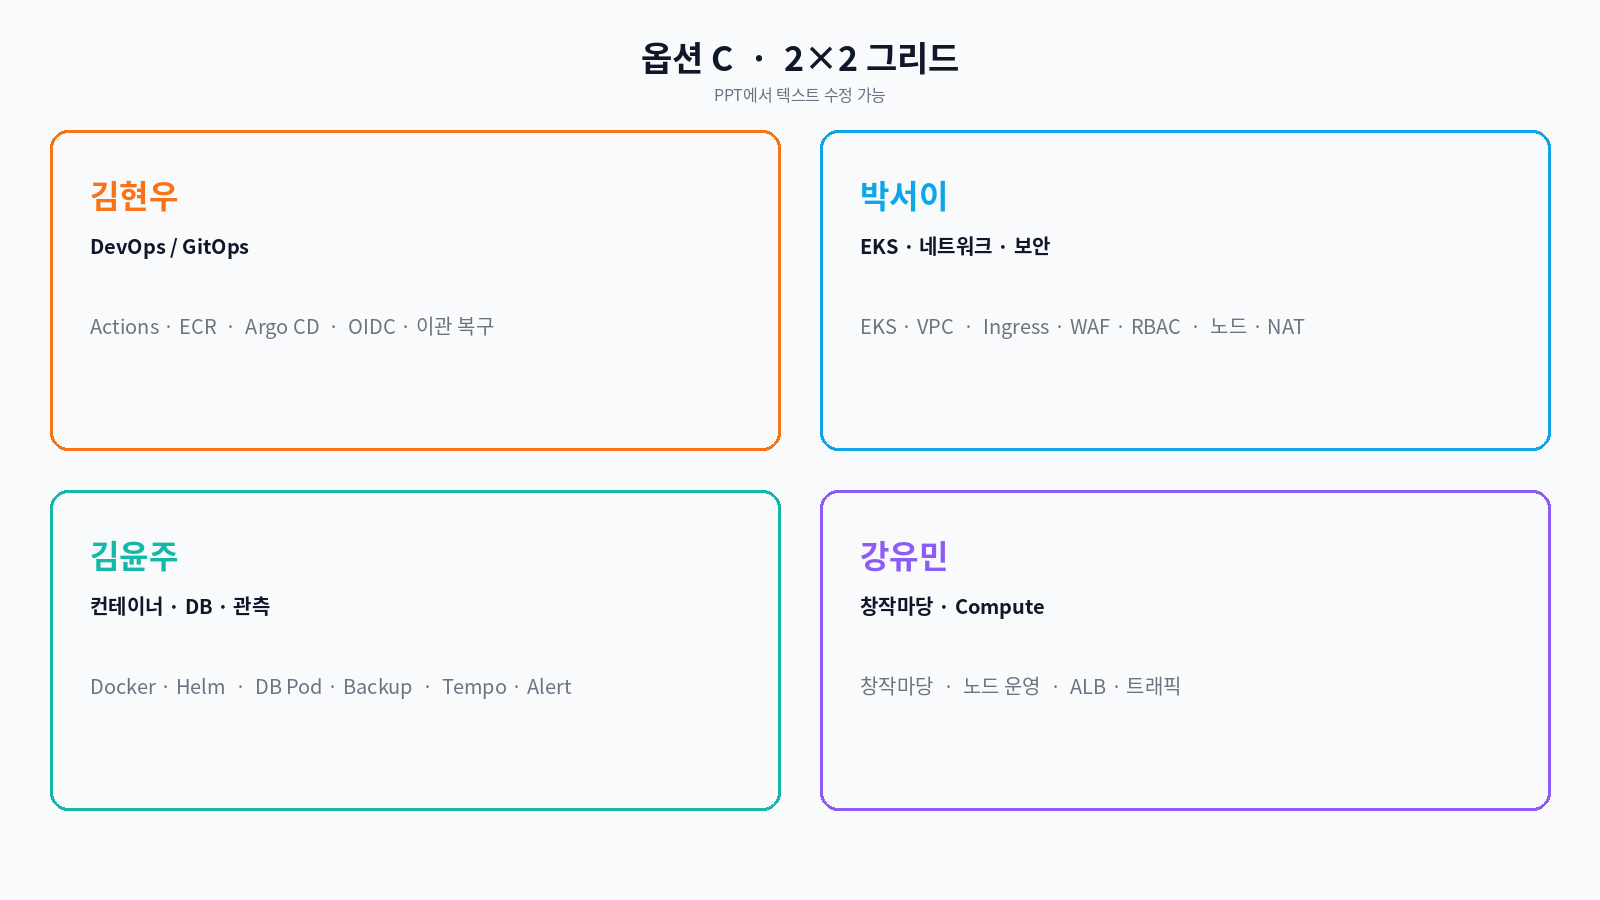
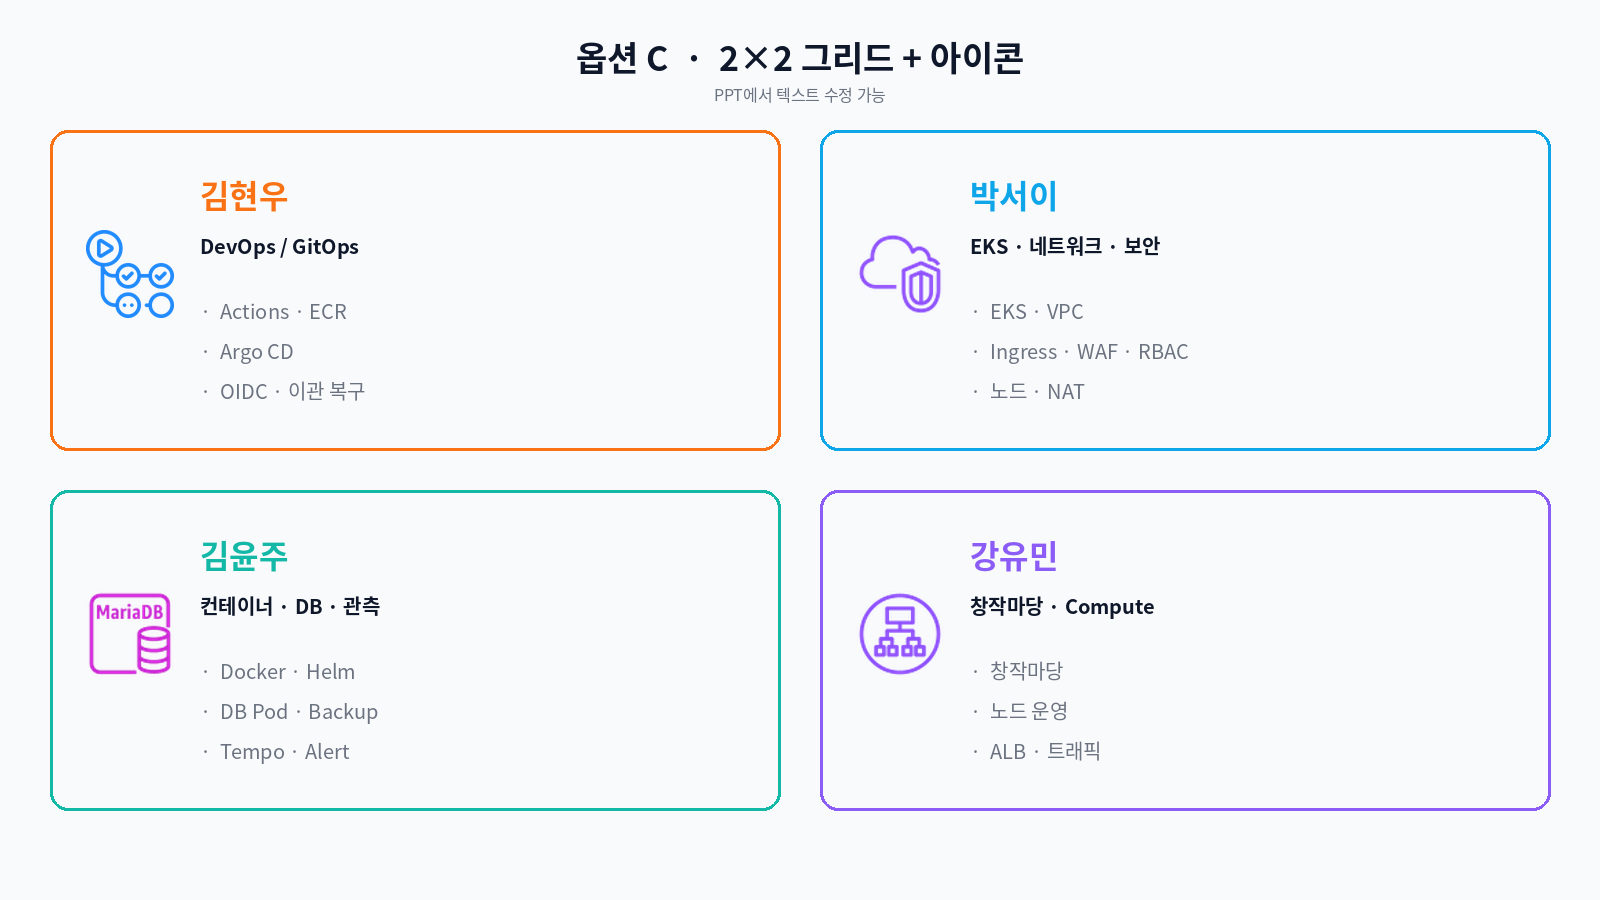
docs(presentation): 역할분담 옵션 C에 아이콘 추가 후 본편 반영
2×2 그리드에 Actions/VPC/DB/ALB 아이콘을 넣고, 텍스트는 PPT에서
수정 가능하도록 유지. 본편 19장도 동일 스타일로 교체.

diff --git a/docs/presentation/make_aniverse_v1v2_ppt.py b/docs/presentation/make_aniverse_v1v2_ppt.py
@@ -23,6 +23,7 @@ from pptx.util import Inches, Pt
 FONT = "맑은 고딕"
 BASE = Path(__file__).resolve().parent
 IMG = BASE / "images" / "hybrid"
+ICON = BASE / "images" / "icons"
 OUT = BASE / "ppt"
 OUT.mkdir(parents=True, exist_ok=True)
 
@@ -627,67 +628,61 @@ def slide_schedule(prs):
 
 
 def slide_roles(prs):
-    """팀 역할분담 — PPT에서 텍스트 직접 수정 가능한 카드 구성."""
+    """팀 역할분담 — 옵션 C(2×2) + 아이콘, 텍스트 수정 가능."""
     s = blank(prs)
     bg(s)
     title_center(s, "팀 역할분담", size=34)
     roles = [
         (
             ORANGE,
+            "githubactions",
             "김현우",
             "DevOps / GitOps",
-            [
-                "Actions · ECR",
-                "Argo CD",
-                "OIDC · 이관 복구",
-            ],
+            ["Actions · ECR", "Argo CD", "OIDC · 이관 복구"],
         ),
         (
             CYAN,
+            "vpc",
             "박서이",
             "EKS · 네트워크 · 보안",
-            [
-                "EKS · VPC",
-                "Ingress · WAF · RBAC",
-                "노드 · NAT",
-            ],
+            ["EKS · VPC", "Ingress · WAF · RBAC", "노드 · NAT"],
         ),
         (
             TEAL,
+            "rds_maria",
             "김윤주",
             "컨테이너 · DB · 관측",
-            [
-                "Docker · Helm",
-                "DB Pod · Backup",
-                "Tempo · Alert",
-            ],
+            ["Docker · Helm", "DB Pod · Backup", "Tempo · Alert"],
         ),
         (
             PURPLE,
+            "alb",
             "강유민",
             "창작마당 · Compute",
-            [
-                "창작마당",
-                "노드 운영",
-                "ALB · 트래픽",
-            ],
+            ["창작마당", "노드 운영", "ALB · 트래픽"],
         ),
     ]
-    for i, (color, name, area, lines) in enumerate(roles):
-        x = Inches(0.35) + i * Inches(3.25)
-        head = card(s, x, Inches(1.15), Inches(3.05), Inches(1.35), color)
-        set_text(head.text_frame, name, 24, True, WHITE, PP_ALIGN.CENTER)
-        add_para(head.text_frame, area, 13, False, WHITE, 6, PP_ALIGN.CENTER)
-        body = card(s, x, Inches(2.65), Inches(3.05), Inches(4.0), LIGHT)
-        body.text_frame.clear()
-        pad(body.text_frame)
-        first = True
-        for line in lines:
-            if first:
-                set_text(body.text_frame, "·  " + line, 16, False, NAVY, PP_ALIGN.CENTER)
-                first = False
-            else:
-                add_para(body.text_frame, "·  " + line, 16, False, NAVY, 18, PP_ALIGN.CENTER)
+    positions = [(0.45, 1.1), (6.85, 1.1), (0.45, 4.05), (6.85, 4.05)]
+    for (x, y), (color, icon, name, area, lines) in zip(positions, roles):
+        card(s, Inches(x), Inches(y), Inches(6.0), Inches(2.75), SOFT, color)
+        icon_path = ICON / f"{icon}.png"
+        if icon_path.exists():
+            s.shapes.add_picture(
+                str(icon_path),
+                Inches(x + 0.3),
+                Inches(y + 0.55),
+                width=Inches(0.85),
+                height=Inches(0.85),
+            )
+        text_x = Inches(x + 1.4)
+        name_box = s.shapes.add_textbox(text_x, Inches(y + 0.25), Inches(4.3), Inches(0.55))
+        set_text(name_box.text_frame, name, 26, True, color)
+        area_box = s.shapes.add_textbox(text_x, Inches(y + 0.8), Inches(4.3), Inches(0.4))
+        set_text(area_box.text_frame, area, 15, True, NAVY)
+        detail = s.shapes.add_textbox(text_x, Inches(y + 1.35), Inches(4.3), Inches(1.2))
+        set_text(detail.text_frame, "·  " + lines[0], 16, False, NAVY)
+        for line in lines[1:]:
+            add_para(detail.text_frame, "·  " + line, 16, False, NAVY, 8)
     footer(s, 19)
 
 

diff --git a/docs/presentation/make_roles_options_ppt.py b/docs/presentation/make_roles_options_ppt.py
@@ -167,16 +167,33 @@ def option_b(prs):
 
 
 def option_c(prs):
-    """2×2 그리드."""
+    """2×2 그리드 + 아이콘."""
     s = blank(prs)
     bg(s)
-    title_bar(s, "C", "2×2 그리드")
-    positions = [(0.55, 1.2), (6.9, 1.2), (0.55, 4.15), (6.9, 4.15)]
-    for (x, y), (color, name, area, lines) in zip(positions, ROLES):
-        c = card(s, Inches(x), Inches(y), Inches(5.9), Inches(2.7), SOFT, color)
-        set_text(c.text_frame, name, 26, True, color)
-        add_para(c.text_frame, area, 15, True, NAVY, 8)
-        add_para(c.text_frame, "  ·  ".join(lines), 16, False, SLATE, 12)
+    title_bar(s, "C", "2×2 그리드 + 아이콘")
+    icons = ["githubactions", "vpc", "rds_maria", "alb"]
+    positions = [(0.45, 1.15), (6.85, 1.15), (0.45, 4.1), (6.85, 4.1)]
+    icon_dir = BASE / "images" / "icons"
+    for (x, y), (color, name, area, lines), icon in zip(positions, ROLES, icons):
+        card(s, Inches(x), Inches(y), Inches(6.0), Inches(2.7), SOFT, color)
+        icon_path = icon_dir / f"{icon}.png"
+        if icon_path.exists():
+            s.shapes.add_picture(
+                str(icon_path),
+                Inches(x + 0.28),
+                Inches(y + 0.55),
+                width=Inches(0.85),
+                height=Inches(0.85),
+            )
+        text_x = Inches(x + 1.35)
+        name_box = s.shapes.add_textbox(text_x, Inches(y + 0.22), Inches(4.4), Inches(0.5))
+        set_text(name_box.text_frame, name, 26, True, color)
+        area_box = s.shapes.add_textbox(text_x, Inches(y + 0.75), Inches(4.4), Inches(0.4))
+        set_text(area_box.text_frame, area, 15, True, NAVY)
+        detail = s.shapes.add_textbox(text_x, Inches(y + 1.3), Inches(4.4), Inches(1.2))
+        set_text(detail.text_frame, "·  " + lines[0], 16, False, NAVY)
+        for line in lines[1:]:
+            add_para(detail.text_frame, "·  " + line, 16, False, NAVY, 8)
     footer(s, "C")
 
 

diff --git a/docs/presentation/make_roles_options_preview.py b/docs/presentation/make_roles_options_preview.py
@@ -98,13 +98,20 @@ def option_b():
 def option_c():
     img = Image.new("RGB", (W, H), BG)
     d = ImageDraw.Draw(img)
-    header(img, "C", "2×2 그리드")
+    header(img, "C", "2×2 그리드 + 아이콘")
+    icon_dir = BASE / "images" / "icons"
+    icons = ["githubactions", "vpc", "rds_maria", "alb"]
     positions = [(50, 130), (820, 130), (50, 490), (820, 490)]
-    for (x, y), (color, name, area, lines) in zip(positions, ROLES):
+    for (x, y), (color, name, area, lines), icon in zip(positions, ROLES, icons):
         rr(d, (x, y, x + 730, y + 320), 18, SOFT, color, 3)
-        d.text((x + 40, y + 40), name, font=fnt(32, True), fill=color)
-        d.text((x + 40, y + 100), area, font=fnt(20, True), fill=NAVY)
-        d.text((x + 40, y + 180), "  ·  ".join(lines), font=fnt(20), fill=GRAY)
+        icon_path = icon_dir / f"{icon}.png"
+        if icon_path.exists():
+            ic = Image.open(icon_path).convert("RGBA").resize((88, 88), Image.Resampling.LANCZOS)
+            img.paste(ic, (x + 36, y + 100), ic)
+        d.text((x + 150, y + 40), name, font=fnt(32, True), fill=color)
+        d.text((x + 150, y + 100), area, font=fnt(20, True), fill=NAVY)
+        for j, line in enumerate(lines):
+            d.text((x + 150, y + 165 + j * 40), "·  " + line, font=fnt(20), fill=GRAY)
     save(img, "roles_option_C.png")
 
 

diff --git a/docs/presentation/CONTENT_V1V2_working.md b/docs/presentation/CONTENT_V1V2_working.md
@@ -29,7 +29,7 @@
 | 16 | 트러블슈팅 · GitOps · CI/CD | 3행 | 현우 |
 | 17 | 트러블슈팅 · EKS | 3행 | 서이 |
 | 18 | 트러블슈팅 · DB · 관측 | 3행 | 윤주 |
-| 19 | 팀 역할분담 | **텍스트 카드** | PPT에서 이름·영역·항목 직접 수정 가능 |
+| 19 | 팀 역할분담 | **텍스트 카드 + 아이콘** | 옵션 C(2×2) · PPT에서 텍스트 수정 가능 |
 | 20 | Q & A | 텍스트 | 감사 · 팀 이름 |
 
 ---
